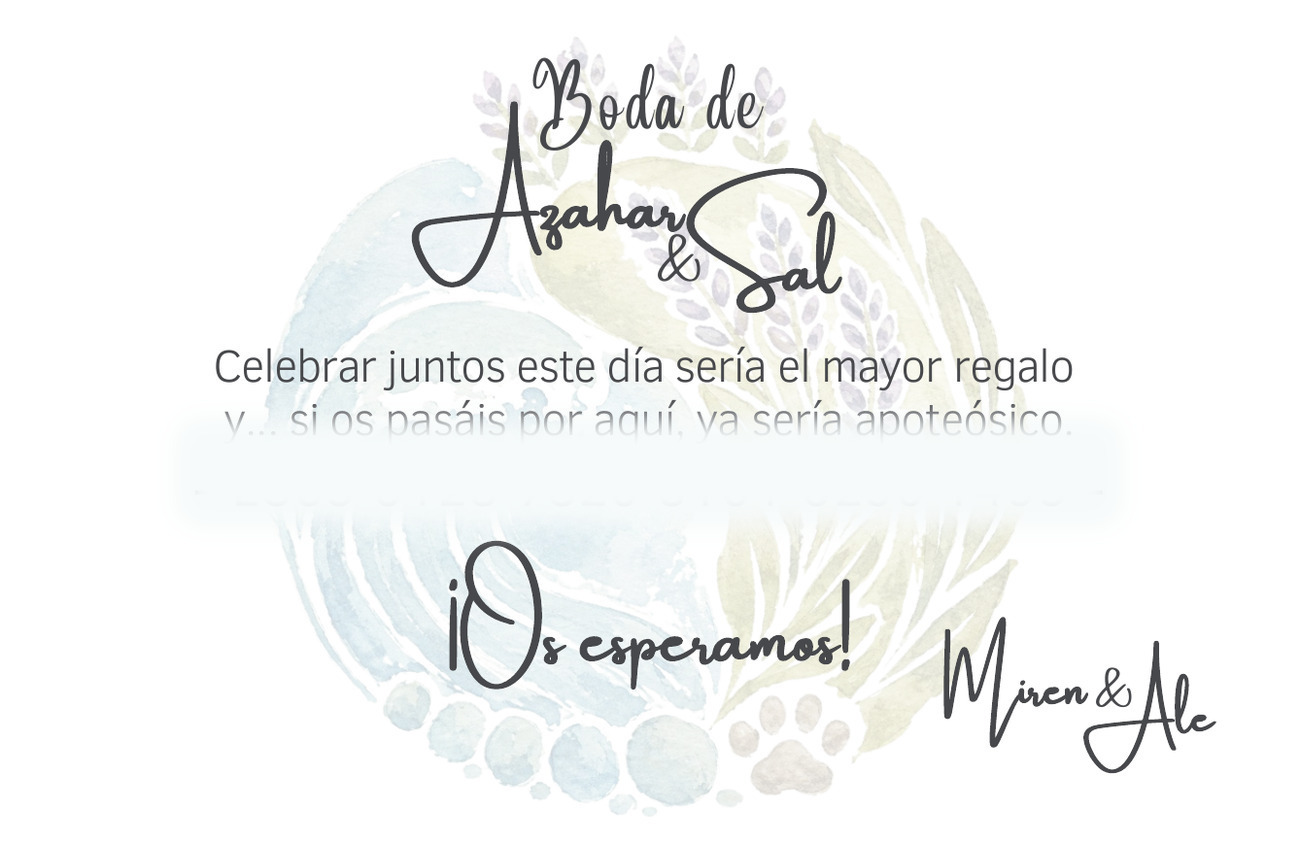
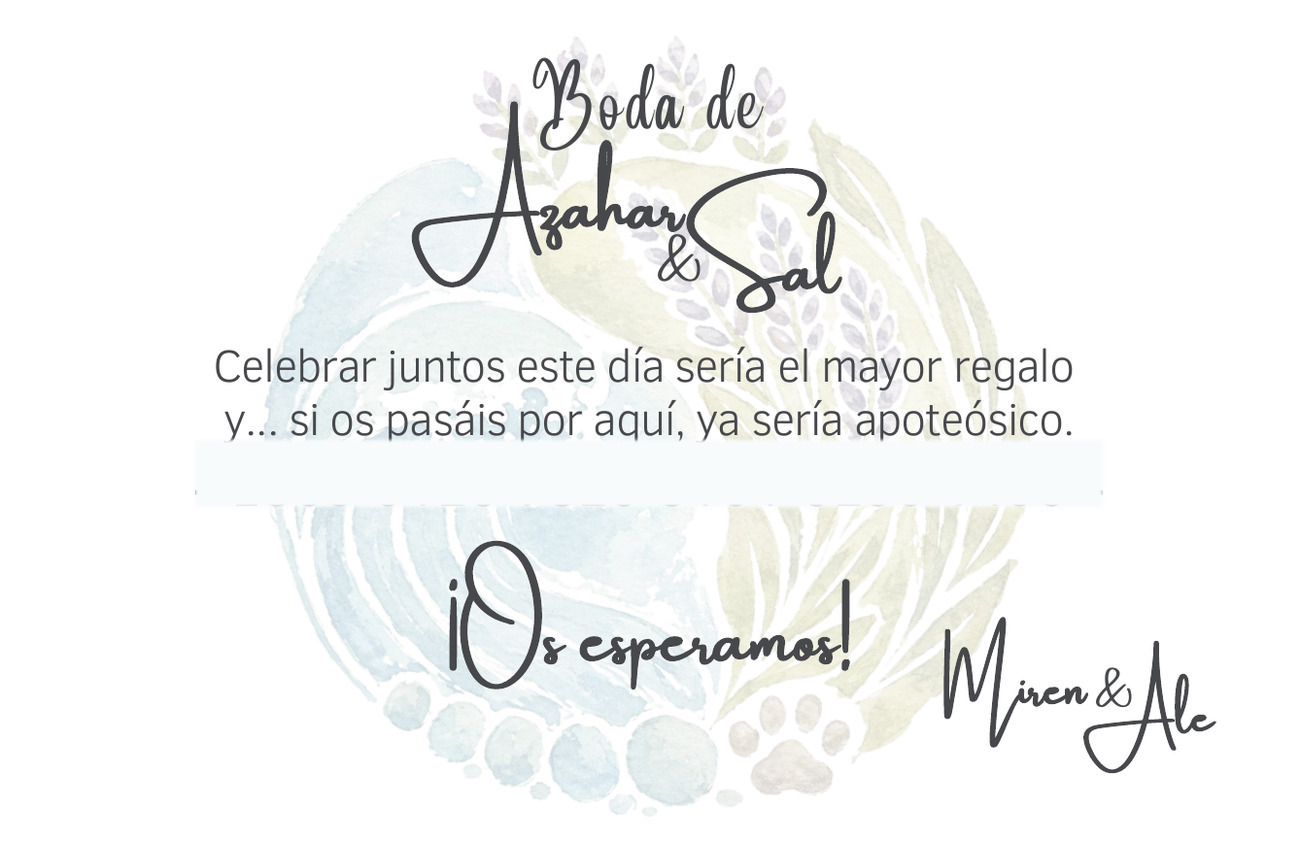
Add files via upload

Changed region(s): [[0.1538, 0.4941, 0.8308, 0.5249], [0.7077, 0.5867, 0.7692, 0.6176], [0.5846, 0.5867, 0.6462, 0.6176]]

diff --git a/index.html b/index.html
@@ -182,9 +182,11 @@
     -webkit-tap-highlight-color: transparent;
     font-family: -apple-system, BlinkMacSystemFont, "Segoe UI", Roboto, sans-serif;
     font-weight:600;
+    line-height:1;
     letter-spacing:0.09em;
     color: var(--iban-green, #4c7a63);
     white-space:nowrap;
+    overflow:hidden;
     transition: transform .15s ease, opacity .15s ease;
   }
   .iban-btn.visible{ display:flex; }
@@ -383,11 +385,13 @@
   }
 
   function fitIbanText(btnEl){
-    if (btnEl.style.display === 'none' || getComputedStyle(btnEl).display === 'none') return;
+    if (getComputedStyle(btnEl).display === 'none') return;
     var span = btnEl.querySelector('span');
-    btnEl.style.fontSize = '15px';
-    var guard = 20;
-    while (guard-- > 0 && span.scrollWidth > btnEl.clientWidth - 4 && parseFloat(btnEl.style.fontSize) > 6){
+    var h = btnEl.clientHeight;
+    var startSize = Math.max(6, h * 0.60);
+    btnEl.style.fontSize = startSize + 'px';
+    var guard = 24;
+    while (guard-- > 0 && span.scrollWidth > btnEl.clientWidth - 4 && parseFloat(btnEl.style.fontSize) > 5){
       btnEl.style.fontSize = (parseFloat(btnEl.style.fontSize) - 0.5) + 'px';
     }
   }
@@ -508,7 +512,7 @@
 
   function rampVolume(){
     if (!spotifyController || typeof spotifyController.setVolume !== 'function') return;
-    var steps = [0.12, 0.22, 0.32, 0.45, 0.55, 0.65];
+    var steps = [0.08, 0.14, 0.20, 0.28, 0.35];
     steps.forEach(function(v, i){
       setTimeout(function(){
         try { spotifyController.setVolume(v); } catch(err){}
@@ -520,7 +524,7 @@
     if (!spotifyController) return;
     try {
       if (typeof spotifyController.setVolume === 'function'){
-        spotifyController.setVolume(0.12);
+        spotifyController.setVolume(0.08);
       }
       spotifyController.play();
       rampVolume();
